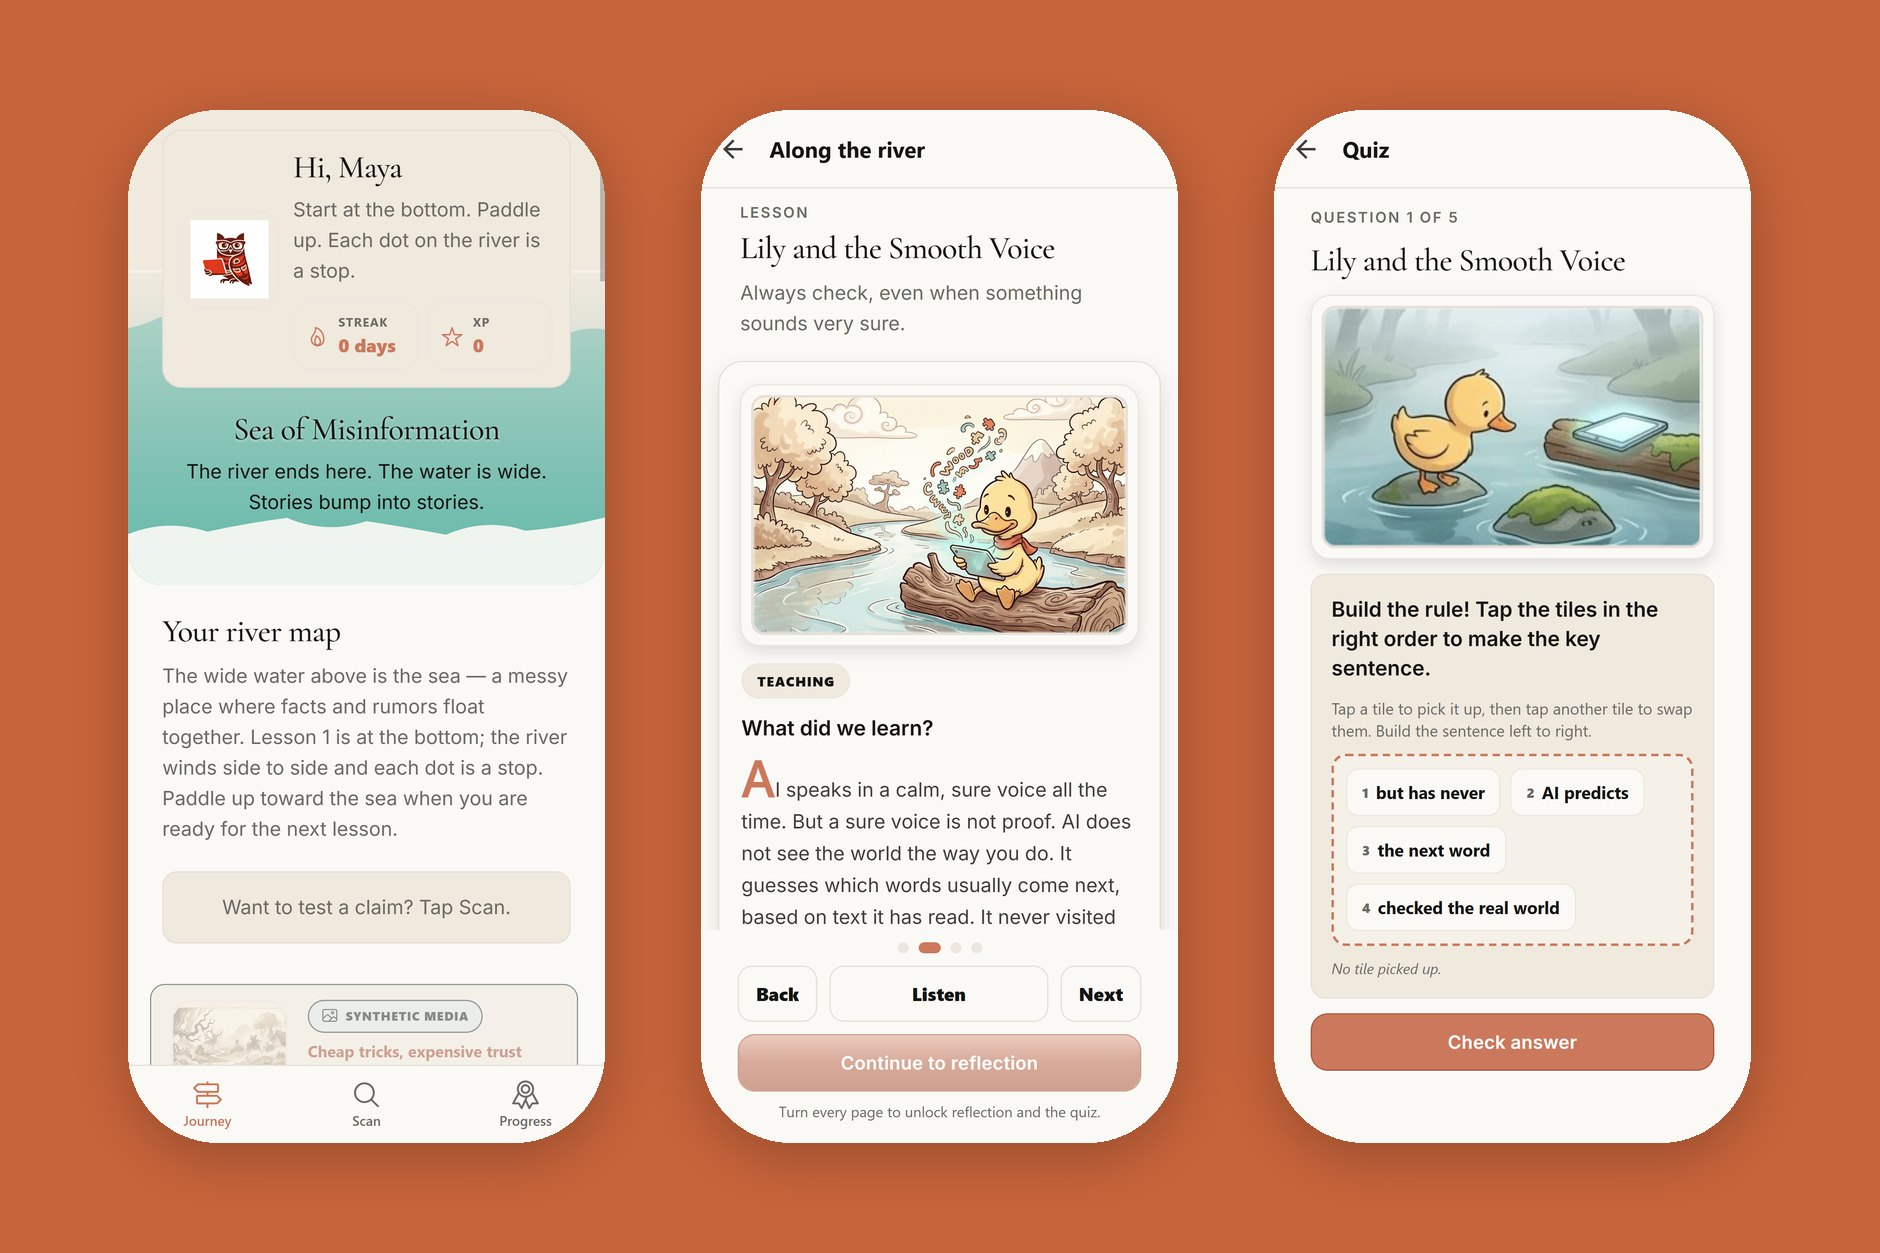
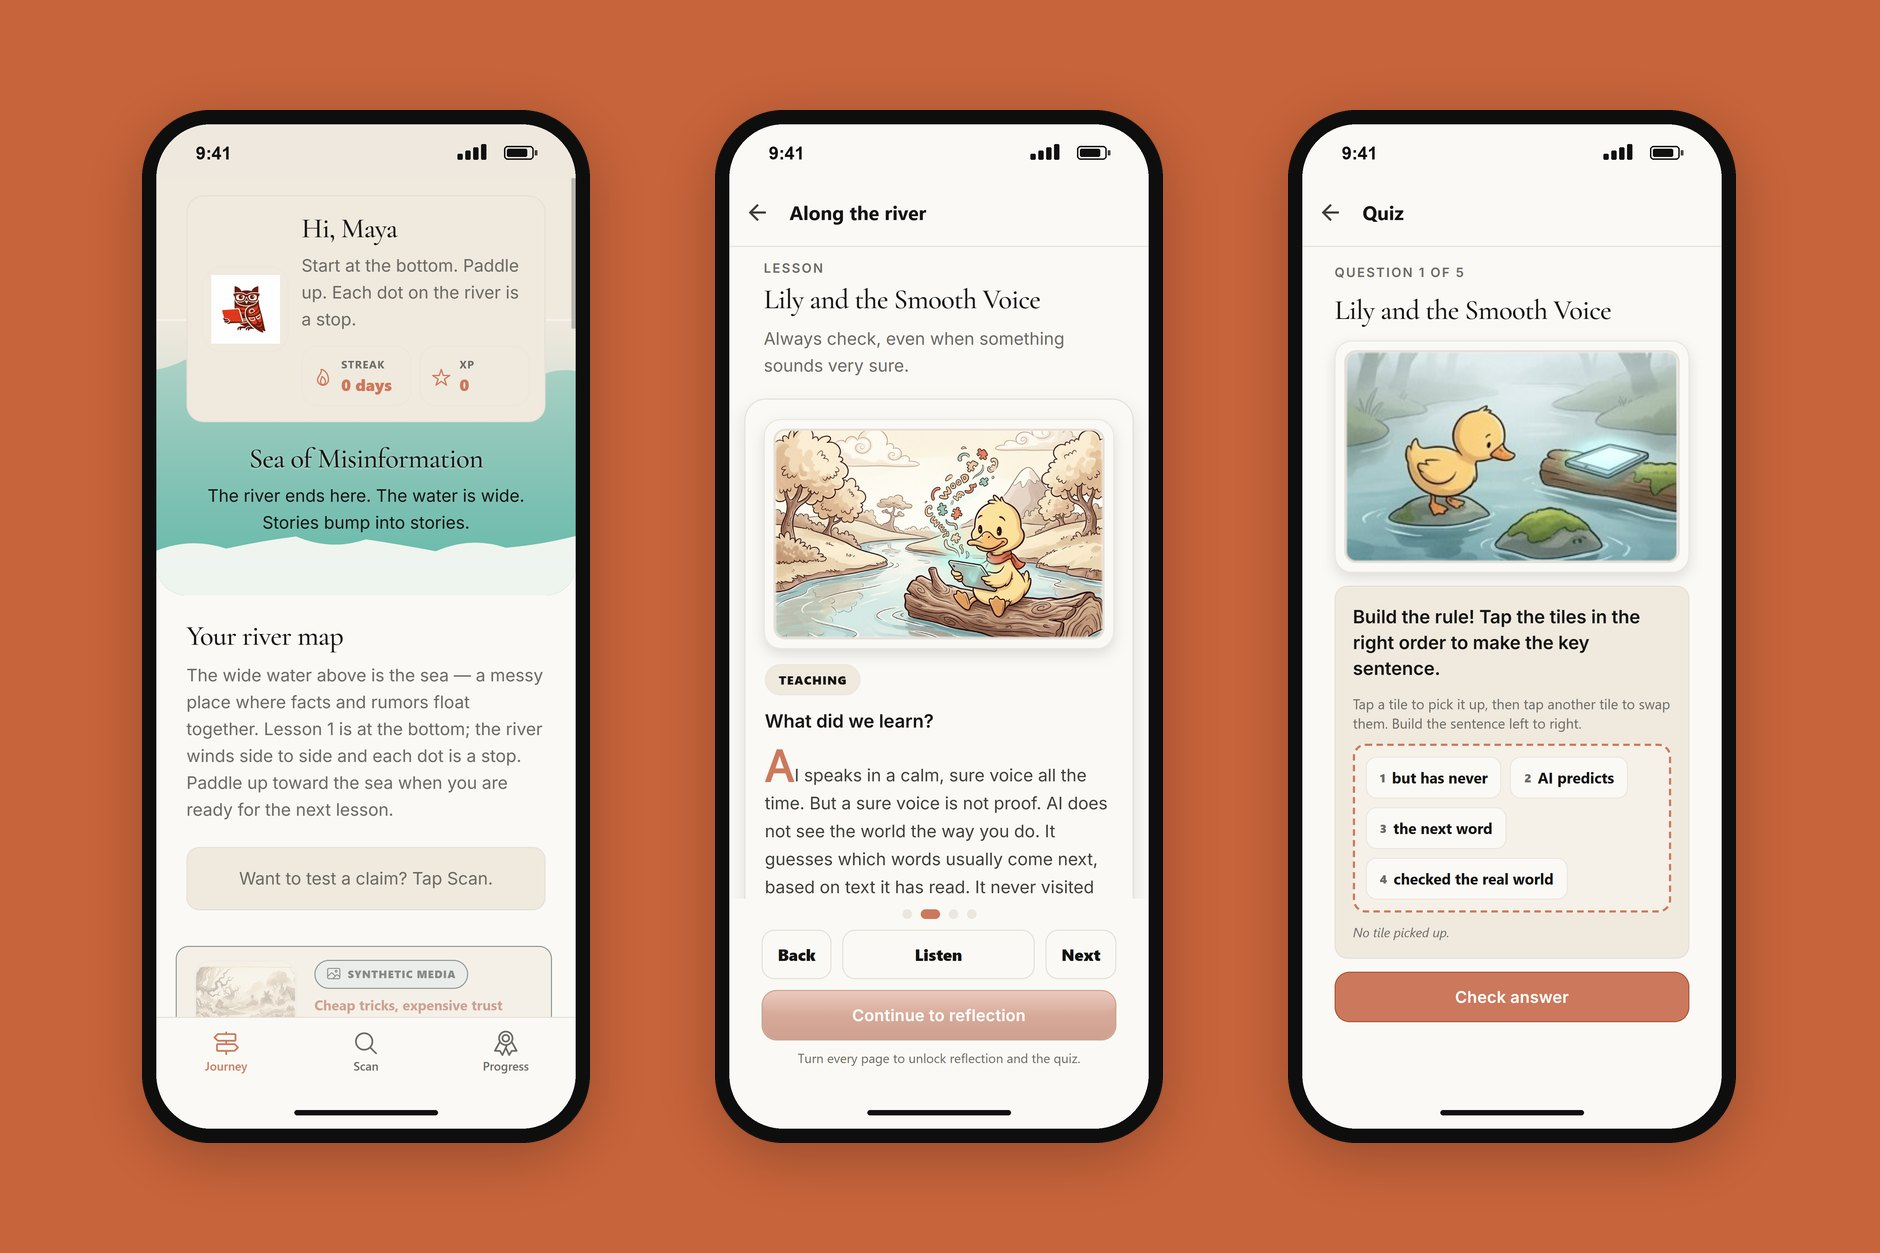
Hero: drag any layer out of the stack; current drawn as glowing pulses along the joined tracks; phones can scroll past it. App screens: real phone frames so corners no longer cut the UI

Changed region(s): [[0.3702, 0.0623, 0.6479, 0.9338], [0.6787, 0.0623, 0.9564, 0.9338], [0.0617, 0.0623, 0.3394, 0.9338]]

diff --git a/site/viewer.js b/site/viewer.js
@@ -8,23 +8,6 @@
     return getComputedStyle(document.documentElement).getPropertyValue(name).trim();
   }
 
-  // A soft round dot, drawn once, for the current pulses.
-  let dot;
-  function dotTexture() {
-    if (dot) return dot;
-    const c = document.createElement('canvas');
-    c.width = c.height = 64;
-    const g = c.getContext('2d');
-    const r = g.createRadialGradient(32, 32, 0, 32, 32, 32);
-    r.addColorStop(0, 'rgba(255,255,255,1)');
-    r.addColorStop(0.25, 'rgba(255,236,170,.9)');
-    r.addColorStop(1, 'rgba(255,190,90,0)');
-    g.fillStyle = r;
-    g.fillRect(0, 0, 64, 64);
-    dot = new THREE.CanvasTexture(c);
-    return dot;
-  }
-
   function mount(el, src, type) {
     if (el._viewer) return;
     const hero = el._hero;   // { progress(), labels: {layer name: element}, leaders: <svg>, traces: url }
@@ -60,46 +43,125 @@
       );
     }
     let layers = [];   // [node, resting height] for type 'layers'
-    let stage = null, size = null, pulses = null;
+    let stage = null, size = null, current = null, heroModel = null;
     const lift = new Map();   // layer -> how far pointing at it has raised it (eased)
     let spread = 0.1, tiltX = 0, tiltY = 0, aimX = 0, aimY = 0, hovered = null;
     const pointer = new THREE.Vector2(9, 9), ray = new THREE.Raycaster();
     const calm = matchMedia('(prefers-reduced-motion: reduce)').matches;   // no drifting current or tilting
+    const pull = new Map();   // layer -> how far it has been dragged out of the stack (model space, mm)
+    let drag = null;
+    const hitPoint = new THREE.Vector3(), zero = new THREE.Vector3();
+    const layerOf = (o) => {
+      for (; o; o = o.parent) {
+        const found = layers.find(([n]) => n === o);
+        if (found) return found[0];
+      }
+      return null;
+    };
 
-    // Current along the tracks: dots that run the length of each top-copper segment.
+    // Current along the tracks. Segments that share an end are joined into continuous paths, each drawn as a
+    // soft ribbon: the copper glows faintly as if powered, and bright pulses with fading tails run along it.
+    function chain(segments) {
+      const key = (x, z) => `${x.toFixed(2)},${z.toFixed(2)}`;
+      const ends = new Map();
+      segments.forEach(([x1, z1, x2, z2], i) => {
+        for (const k of [key(x1, z1), key(x2, z2)]) ends.set(k, [...(ends.get(k) || []), i]);
+      });
+      const used = new Set(), paths = [];
+      const walk = (i, fromStart) => {
+        const pts = [];
+        let [x1, z1, x2, z2] = segments[i];
+        if (!fromStart) [x1, z1, x2, z2] = [x2, z2, x1, z1];
+        pts.push([x1, z1], [x2, z2]);
+        used.add(i);
+        for (;;) {
+          const [x, z] = pts[pts.length - 1];
+          const next = (ends.get(key(x, z)) || []).find((j) => !used.has(j));
+          if (next == null) return pts;
+          used.add(next);
+          const [a, b, c, d] = segments[next];
+          pts.push(key(a, b) === key(x, z) ? [c, d] : [a, b]);
+        }
+      };
+      // Start from the loose ends first so each path runs end to end.
+      const order = [...segments.keys()].sort((i, j) => {
+        const deg = (k) => (ends.get(k) || []).length;
+        const [a, b] = segments[i], [c, d] = segments[j];
+        return (deg(key(a, b)) === 2) - (deg(key(c, d)) === 2);
+      });
+      for (const i of order) if (!used.has(i)) paths.push(walk(i, true));
+      return paths;
+    }
+
+    function ribbon(paths, half) {
+      const pos = [], dist = [], side = [], seed = [], index = [];
+      for (const pts of paths) {
+        const s0 = Math.random() * 40;
+        let d = 0;
+        const base = pos.length / 3;
+        for (let i = 0; i < pts.length; i++) {
+          const [x, z] = pts[i];
+          if (i) d += Math.hypot(x - pts[i - 1][0], z - pts[i - 1][1]);
+          const a = pts[Math.max(0, i - 1)], b = pts[Math.min(pts.length - 1, i + 1)];
+          let tx = b[0] - a[0], tz = b[1] - a[1];
+          const tl = Math.hypot(tx, tz) || 1;
+          tx /= tl; tz /= tl;
+          for (const sd of [-1, 1]) {
+            pos.push(x - tz * half * sd, 0.08, z + tx * half * sd);
+            dist.push(d); side.push(sd); seed.push(s0);
+          }
+          if (i) {
+            const k = base + (i - 1) * 2;
+            index.push(k, k + 1, k + 2, k + 1, k + 3, k + 2);
+          }
+        }
+      }
+      const geo = new THREE.BufferGeometry();
+      geo.setAttribute('position', new THREE.Float32BufferAttribute(pos, 3));
+      geo.setAttribute('aDist', new THREE.Float32BufferAttribute(dist, 1));
+      geo.setAttribute('aSide', new THREE.Float32BufferAttribute(side, 1));
+      geo.setAttribute('aSeed', new THREE.Float32BufferAttribute(seed, 1));
+      geo.setIndex(index);
+      return geo;
+    }
+
     function addCurrent(model, url) {
       const copper = model.children.find((n) => n.name === 'top-copper');
       if (!copper) return;
       fetch(url).then((r) => r.json()).then(({ segments }) => {
-        const items = [];
-        for (const [x1, z1, x2, z2] of segments) {
-          const len = Math.hypot(x2 - x1, z2 - z1);
-          const n = Math.max(1, Math.round(len / 1.6));
-          for (let k = 0; k < n; k++) items.push({ x1, z1, x2, z2, len, phase: k / n + Math.random() * 0.15 });
-        }
-        const pos = new Float32Array(items.length * 3);
-        const geo = new THREE.BufferGeometry();
-        geo.setAttribute('position', new THREE.BufferAttribute(pos, 3));
-        const mat = new THREE.PointsMaterial({
-          map: dotTexture(), size: 1.15, sizeAttenuation: true, transparent: true, depthWrite: false,
-          blending: THREE.AdditiveBlending, color: 0xffd98a,
+        const material = new THREE.ShaderMaterial({
+          uniforms: { uTime: { value: 0 } },
+          vertexShader: `
+            attribute float aDist; attribute float aSide; attribute float aSeed;
+            varying float vDist; varying float vSide;
+            void main() {
+              vDist = aDist + aSeed; vSide = aSide;
+              gl_Position = projectionMatrix * modelViewMatrix * vec4(position, 1.0);
+            }`,
+          fragmentShader: `
+            uniform float uTime;
+            varying float vDist; varying float vSide;
+            void main() {
+              float s = abs(vSide);
+              float core = exp(-s * s * 18.0);            // the trace itself
+              float halo = exp(-s * s * 3.0) * 0.45;      // light spilling onto the board
+              float q = fract((vDist - uTime * 7.0) / 11.0);
+              float pulse = pow(q, 7.0) * smoothstep(1.0, 0.965, q);   // sharp head, long fading tail
+              float glow = core * (0.16 + 1.9 * pulse) + halo * pulse;
+              vec3 amber = vec3(1.0, 0.56, 0.18);
+              vec3 hot = vec3(1.0, 0.95, 0.82);
+              gl_FragColor = vec4(mix(amber, hot, clamp(pulse * core * 1.4, 0.0, 1.0)) * glow, 1.0);
+            }`,
+          transparent: true, depthWrite: false, blending: THREE.AdditiveBlending,
         });
-        pulses = { items, pos, geo, points: new THREE.Points(geo, mat) };
-        pulses.points.renderOrder = 10;
-        copper.add(pulses.points);
+        const mesh = new THREE.Mesh(ribbon(chain(segments), 0.42), material);
+        mesh.renderOrder = 10;
+        copper.add(mesh);
+        current = material;
       }).catch(() => {});
     }
     function stepCurrent(t) {
-      if (!pulses) return;
-      const { items, pos, geo } = pulses;
-      for (let i = 0; i < items.length; i++) {
-        const it = items[i];
-        const f = (it.phase + t * 4.2 / Math.max(it.len, 2)) % 1;   // about 4 mm a second
-        pos[i * 3] = it.x1 + (it.x2 - it.x1) * f;
-        pos[i * 3 + 1] = 0.12;
-        pos[i * 3 + 2] = it.z1 + (it.z2 - it.z1) * f;
-      }
-      geo.attributes.position.needsUpdate = true;
+      if (current) current.uniforms.uTime.value = t;
     }
 
     // Labels: each layer's name sits in a column to the right, joined to the layer's edge by a thin line.
@@ -134,7 +196,28 @@
         aimX = Math.max(-1, Math.min(1, pointer.x));
         aimY = Math.max(-1, Math.min(1, pointer.y));
       }, { passive: true });
-      el.addEventListener('pointerleave', () => { pointer.set(9, 9); aimX = aimY = 0; });
+      el.addEventListener('pointerleave', () => { if (!drag) { pointer.set(9, 9); aimX = aimY = 0; } });
+      // Grab a layer and it comes out with the pointer, then springs back into the stack when let go.
+      el.addEventListener('pointerdown', (e) => {
+        if (!heroModel || e.button > 0) return;
+        const r = el.getBoundingClientRect();
+        pointer.set((e.clientX - r.left) / r.width * 2 - 1, -((e.clientY - r.top) / r.height) * 2 + 1);
+        ray.setFromCamera(pointer, camera);
+        const hit = ray.intersectObjects(layers.map(([n]) => n), true).find((x) => x.object.isMesh);
+        const node = hit && layerOf(hit.object);
+        if (!node) return;
+        const normal = camera.getWorldDirection(new THREE.Vector3());
+        drag = {
+          node, plane: new THREE.Plane().setFromNormalAndCoplanarPoint(normal, hit.point),
+          start: heroModel.worldToLocal(hit.point.clone()), from: (pull.get(node) || new THREE.Vector3()).clone(),
+        };
+        hovered = node;
+        el.setPointerCapture(e.pointerId);
+        el.classList.add('dragging');
+      });
+      const release = () => { drag = null; el.classList.remove('dragging'); };
+      el.addEventListener('pointerup', release);
+      el.addEventListener('pointercancel', release);   // e.g. a phone turned the gesture into a scroll
       // Phones: tilt the phone to tilt the board, where the browser allows it without asking.
       window.addEventListener('deviceorientation', (e) => {
         if (e.gamma == null) return;
@@ -175,6 +258,7 @@
           stage = new THREE.Group();
           stage.add(model);
           scene.add(stage);
+          heroModel = model;
           if (hero.traces) addCurrent(model, hero.traces);
         } else {
           scene.add(model);
@@ -245,19 +329,24 @@
         stage.rotation.set(-0.12 * tiltY, -0.55 + ease * 1.05 + tiltX * 0.28, 0.05 * tiltX);
         stage.updateMatrixWorld(true);
         ray.setFromCamera(pointer, camera);
-        const hit = ray.intersectObjects(layers.map(([n]) => n), true).find((x) => x.object.isMesh);
-        hovered = null;
-        if (spread > 0.45 && hit) {
-          for (let o = hit.object; o; o = o.parent) {
-            const found = layers.find(([n]) => n === o);
-            if (found) { hovered = found[0]; break; }
+        if (drag) {
+          if (ray.ray.intersectPlane(drag.plane, hitPoint)) {
+            const moved = heroModel.worldToLocal(hitPoint.clone()).sub(drag.start);
+            pull.set(drag.node, drag.from.clone().add(moved).clampLength(0, 34));
           }
+          hovered = drag.node;
+        } else {
+          const hit = ray.intersectObjects(layers.map(([n]) => n), true).find((x) => x.object.isMesh);
+          hovered = hit ? layerOf(hit.object) : null;
         }
+        el.classList.toggle('can-grab', !!hovered && !drag);
         for (const [n, y] of layers) {
           const was = lift.get(n) || 0;
-          const l = was + ((hovered === n ? 1.6 : 0) - was) * 0.15;
+          const l = was + ((hovered === n && spread > 0.45 && !drag ? 1.6 : 0) - was) * 0.15;
           lift.set(n, l);
-          n.position.y = y * spread + l;
+          const pl = pull.get(n) || zero;
+          if (!drag || drag.node !== n) pl.lerp(zero, 0.085);   // spring back once let go
+          n.position.set(pl.x, y * spread + l + pl.y, pl.z);
         }
         stepCurrent(calm ? 0 : t);
         if (size) placeLabels(Math.max(0, Math.min(1, (spread - 0.45) / 0.5)).toFixed(3));

diff --git a/site/style.css b/site/style.css
@@ -116,8 +116,10 @@ em { font-family: var(--serif); font-style: italic; font-weight: 400; letter-spa
   font-family: var(--serif); font-size: clamp(110px, 21vw, 380px); line-height: .8; letter-spacing: -0.025em;
   white-space: nowrap; color: #1f6e4f;
 }
-.hero-name span { color: var(--accent); }
-.hero-viewer { position: absolute; inset: 0; }
+.hero-name span { color: inherit; }
+.hero-viewer { position: absolute; inset: 0; cursor: default; touch-action: pan-y; }   /* phones can still scroll past it */
+.hero-viewer.can-grab { cursor: grab; }
+.hero-viewer.dragging { cursor: grabbing; }
 .hero-leaders { position: absolute; inset: 0; width: 100%; height: 100%; pointer-events: none; overflow: visible; }
 .hero-leaders line { stroke: rgba(241, 235, 223, .55); stroke-width: 1; }
 .hero-leaders circle { fill: #f1ebdf; }

diff --git a/scripts/compose_screens.py b/scripts/compose_screens.py
@@ -7,7 +7,7 @@ Raw captures are not committed; the composed JPEGs in media/<app>/screens/ are.
 import sys
 from pathlib import Path
 
-from PIL import Image, ImageDraw, ImageFilter
+from PIL import Image, ImageDraw, ImageFilter, ImageFont
 
 ROOT = Path(__file__).resolve().parent.parent
 W, H = 1880, 1253          # 3:2
@@ -32,12 +32,66 @@ def shadow(size, r, blur=28, alpha=60):
     return sh.filter(ImageFilter.GaussianBlur(blur)), pad
 
 
+def contrast(rgb):
+    """Black or white, whichever reads on this colour (for the status bar and home indicator)."""
+    return (16, 16, 16) if 0.299 * rgb[0] + 0.587 * rgb[1] + 0.114 * rgb[2] > 150 else (245, 245, 245)
+
+
+def edge_colour(im, rows):
+    strip = im.crop((0, rows[0], im.width, rows[1])).resize((1, 1), Image.BOX)
+    return strip.getpixel((0, 0))
+
+
+PHONE_RADIUS, BEZEL = 150, 40
+
+
+def phone(shot):
+    """Put a phone screenshot in a phone: a status bar above and a home-indicator strip below, both in the
+    app's own edge colours, inside a dark bezel. The rounded corners then fall on those strips, the way a
+    real phone keeps an app inside its safe area, instead of cutting into the app's header and tab bar."""
+    w, h = shot.size
+    top_h, bottom_h = 150, 120
+    top, bottom = edge_colour(shot, (0, 6)), edge_colour(shot, (h - 6, h))
+    screen = Image.new('RGB', (w, h + top_h + bottom_h), top)
+    screen.paste(Image.new('RGB', (w, bottom_h), bottom), (0, top_h + h))
+    screen.paste(shot, (0, top_h))
+    d = ImageDraw.Draw(screen)
+    ink = contrast(top)
+    try:
+        font = ImageFont.truetype('arialbd.ttf', 50)
+    except OSError:
+        font = ImageFont.load_default()
+    d.text((110, 52), '9:41', font=font, fill=ink)
+    bx = w - 200                                   # battery
+    d.rounded_rectangle((bx, 60, bx + 82, 98), 10, outline=ink, width=4)
+    d.rounded_rectangle((bx + 8, 68, bx + 64, 90), 5, fill=ink)
+    d.rounded_rectangle((bx + 86, 72, bx + 92, 86), 2, fill=ink)
+    for k in range(4):                             # signal
+        x0 = w - 330 + k * 22
+        d.rounded_rectangle((x0, 92 - 10 - k * 9, x0 + 14, 98), 3, fill=ink)
+    pill = 400
+    d.rounded_rectangle(((w - pill) // 2, top_h + h + bottom_h - 52, (w + pill) // 2, top_h + h + bottom_h - 38),
+                        7, fill=contrast(bottom))
+    device = Image.new('RGBA', (w + 2 * BEZEL, screen.height + 2 * BEZEL), (0, 0, 0, 0))
+    ImageDraw.Draw(device).rounded_rectangle((0, 0, device.width - 1, device.height - 1), PHONE_RADIUS + BEZEL,
+                                             fill=(14, 14, 15, 255))
+    device.alpha_composite(rounded(screen, PHONE_RADIUS), (BEZEL, BEZEL))
+    return device
+
+
 def place(plate, im, box, r):
-    """Fit im into box (x, y, w, h), centred, with rounded corners and a soft shadow."""
+    """Fit im into box (x, y, w, h), centred, with a soft shadow. A finished phone (RGBA) keeps its own shape,
+    anything else gets rounded corners of radius r."""
     x, y, bw, bh = box
     scale = min(bw / im.width, bh / im.height)
     im = im.resize((round(im.width * scale), round(im.height * scale)), Image.LANCZOS)
     px, py = x + (bw - im.width) // 2, y + (bh - im.height) // 2
+    if im.mode == 'RGBA':
+        r = round((PHONE_RADIUS + BEZEL) * scale)
+        sh, pad = shadow(im.size, r)
+        plate.alpha_composite(sh, (px - pad, py - pad))
+        plate.alpha_composite(im, (px, py))
+        return
     sh, pad = shadow(im.size, r)
     plate.alpha_composite(sh, (px - pad, py - pad))
     plate.alpha_composite(rounded(im, r), (px, py))
@@ -63,8 +117,8 @@ def main(shots):
     s = lambda n: Image.open(shots / n).convert('RGB')
 
     # IronLog: phone screens at 1170x2532.
-    save(plate_of([s('il-today.png'), s('il-workout.png'), s('il-progress.png')], r=90, bg=COLOR['ironlog']), 'ironlog/screens/overview.jpg')
-    save(plate_of([s('il-workout.png'), s('il-history.png')], r=90, bg=COLOR['ironlog']), 'ironlog/screens/workout-history.jpg')
+    save(plate_of([phone(s('il-today.png')), phone(s('il-workout.png')), phone(s('il-progress.png'))], r=90, bg=COLOR['ironlog']), 'ironlog/screens/overview.jpg')
+    save(plate_of([phone(s('il-workout.png')), phone(s('il-history.png'))], r=90, bg=COLOR['ironlog']), 'ironlog/screens/workout-history.jpg')
 
     # IB Paper Organizer: window captures, trimmed to the app's content area.
     lib = s('ibo-library.png')
@@ -79,9 +133,9 @@ def main(shots):
     # Youtonomous: native window, 1290x688.
     # AI-Phillic: Expo web build at 390x844, 3x, onboarded as a sample student.
     ai = COLOR['ai-phillic']
-    save(plate_of([s('aip-journey-top.png'), s('aip-lesson2.png'), s('aip-quiz.png')], r=90, bg=ai), 'ai-phillic/screens/lesson.jpg')
-    save(plate_of([s('aip-lesson3.png'), s('aip-lesson4.png'), s('aip-scan.png')], r=90, bg=ai), 'ai-phillic/screens/teaching.jpg')
-    save(plate_of([s('aip-progress.png'), s('aip-journey.png'), s('aip-onboarding.png')], r=90, bg=ai), 'ai-phillic/screens/progress.jpg')
+    save(plate_of([phone(s('aip-journey-top.png')), phone(s('aip-lesson2.png')), phone(s('aip-quiz.png'))], r=90, bg=ai), 'ai-phillic/screens/lesson.jpg')
+    save(plate_of([phone(s('aip-lesson3.png')), phone(s('aip-lesson4.png')), phone(s('aip-scan.png'))], r=90, bg=ai), 'ai-phillic/screens/teaching.jpg')
+    save(plate_of([phone(s('aip-progress.png')), phone(s('aip-journey.png')), phone(s('aip-onboarding.png'))], r=90, bg=ai), 'ai-phillic/screens/progress.jpg')
 
     save(plate_of([s('yt-main-crop.png')], r=10, margin=90, bg=COLOR['youtonomous']), 'youtonomous/screens/player.jpg')
 
